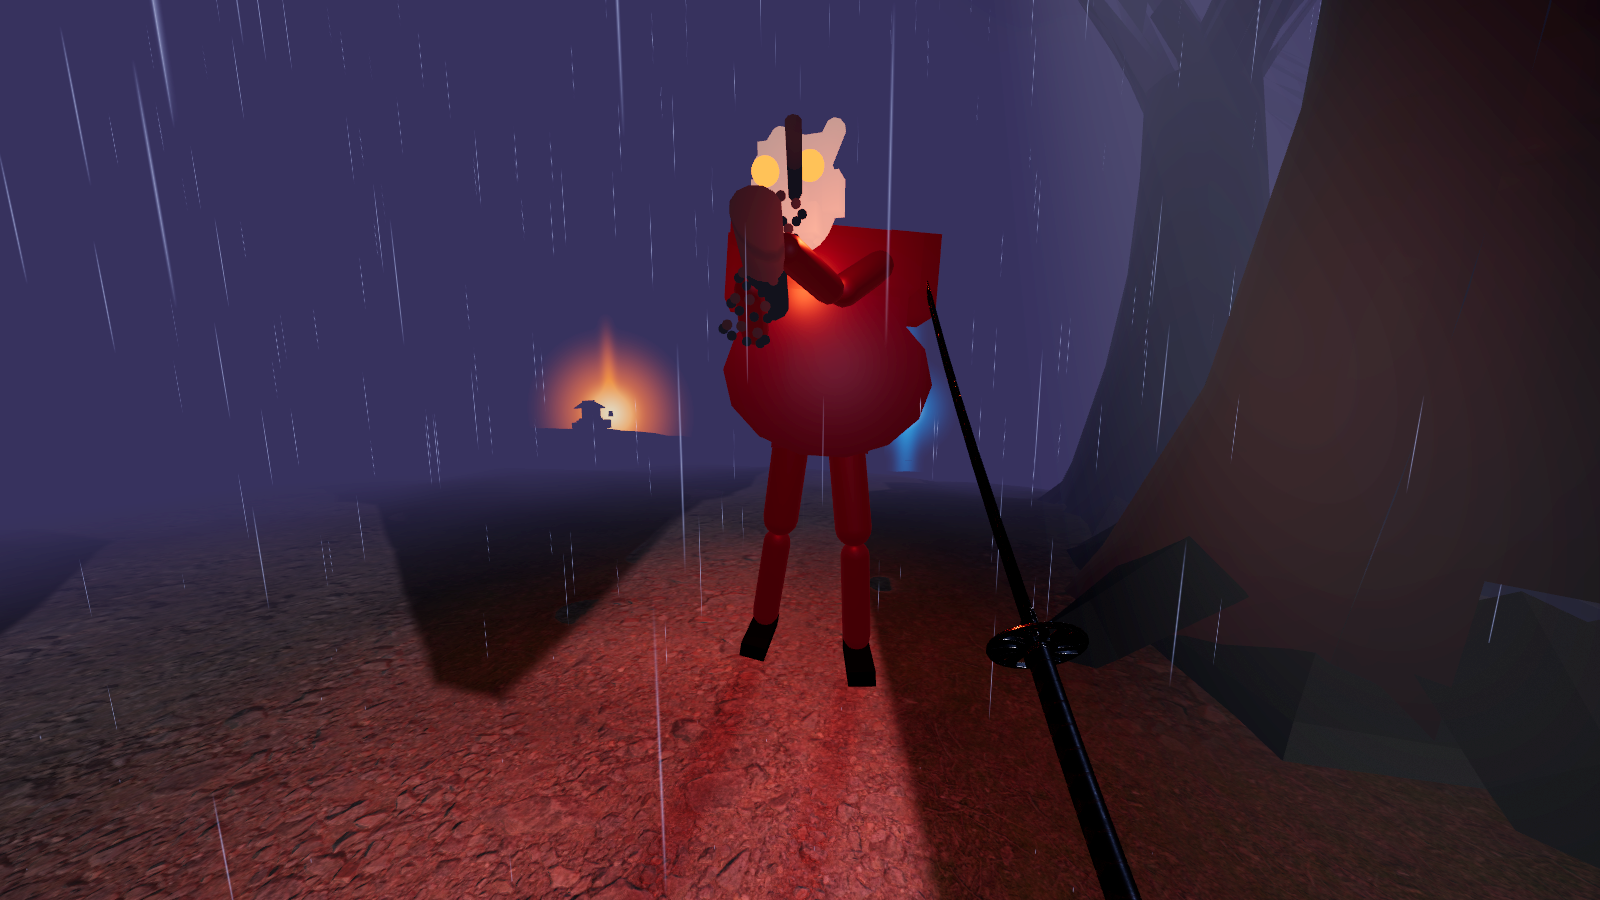
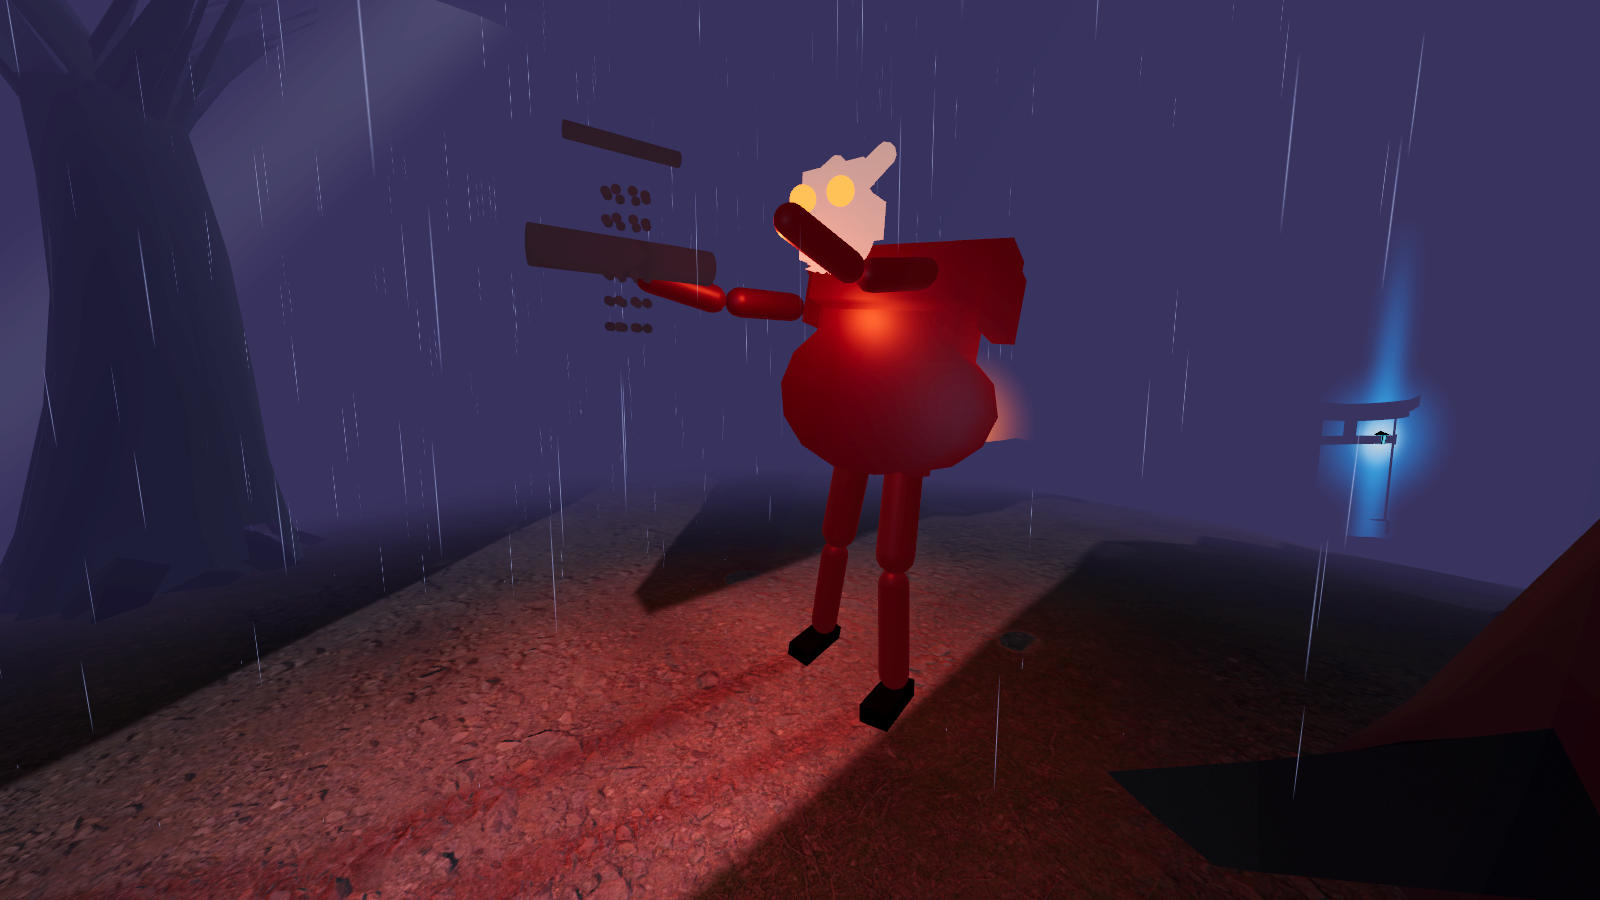
fix(d15): orbit telegraph camera off the mask, hide katana in boss shots, document review

diff --git a/docs/D15_PLAN.md b/docs/D15_PLAN.md
@@ -83,3 +83,14 @@
     - `01_boss_scale_vs_player.png` (porównanie skali boss vs gracz)
     - `02_boss_attack_windup.png` (wind-up i telegrafowanie ataku)
     - `03_boss_speech_bubble.png` (dymek tekstowy nad bossem)
+
+## 7. Ocena zrzutów (D15_fix2)
+
+Zrzuty: `docs/d15/01_boss_scale_vs_player.png`, `02_boss_attack_windup.png`, `03_boss_speech_bubble.png`. Generowane w oknie przez `tests/oni_boss_screenshots.tscn` (`--shots docs/d15`), każde ujęcie przechodzi twarde asercje kadru zanim PNG zostanie zapisany.
+
+- **01 skala:** cały boss w kadrze, ok. 5 m od gracza, dymek jednowierszowy i czytelny. Słabe: ragdoll to proste bryły i pałeczkowate kończyny, maska to szara, płaska plama, a kanabō w tej pozie to brązowy pręt. Nie jest to poziom premium.
+- **02 telegraf:** kanabō uniesione nad głową, czytelne jako broń, bo kamera orbituje o 35° od osi bossa i odsuwa klub od maski. Ograniczenie: klub nadal jest matowym, ciemnobrązowym prętem (metallic 0.72 przy ciemnym albedo, bez dodatkowego oświetlenia), więc w ciemniejszej mgle wtapia się w tło. Nie zmieniałem modelu ani oświetlenia. Wniosek: telegraf jest czytelny w tym ujęciu, ale nie ma efektu premium.
+- **03 dymek:** dwuwierszowy tekst na czarnej płycie z czerwoną ramką, czytelny na tle mgły; boss w całości w kadrze. Słabe: ten sam prymitywny model.
+- Usunięto katanę gracza z kadru (przecinała boss w 01 i 03). To wybór prezentacyjny, nie zmiana w grze.
+
+**Decyzja:** te trzy PNG wystarczą do przeglądu kompozycji, skali, telegrafu i czytelności dymka. **Nie wystarczają** jako dowód jakości premium: do tego potrzebny jest model bossa z detalem (maska, kanabō, sylwetka) i przegląd na Questcie, którego w tej sesji nie zrobiono.
